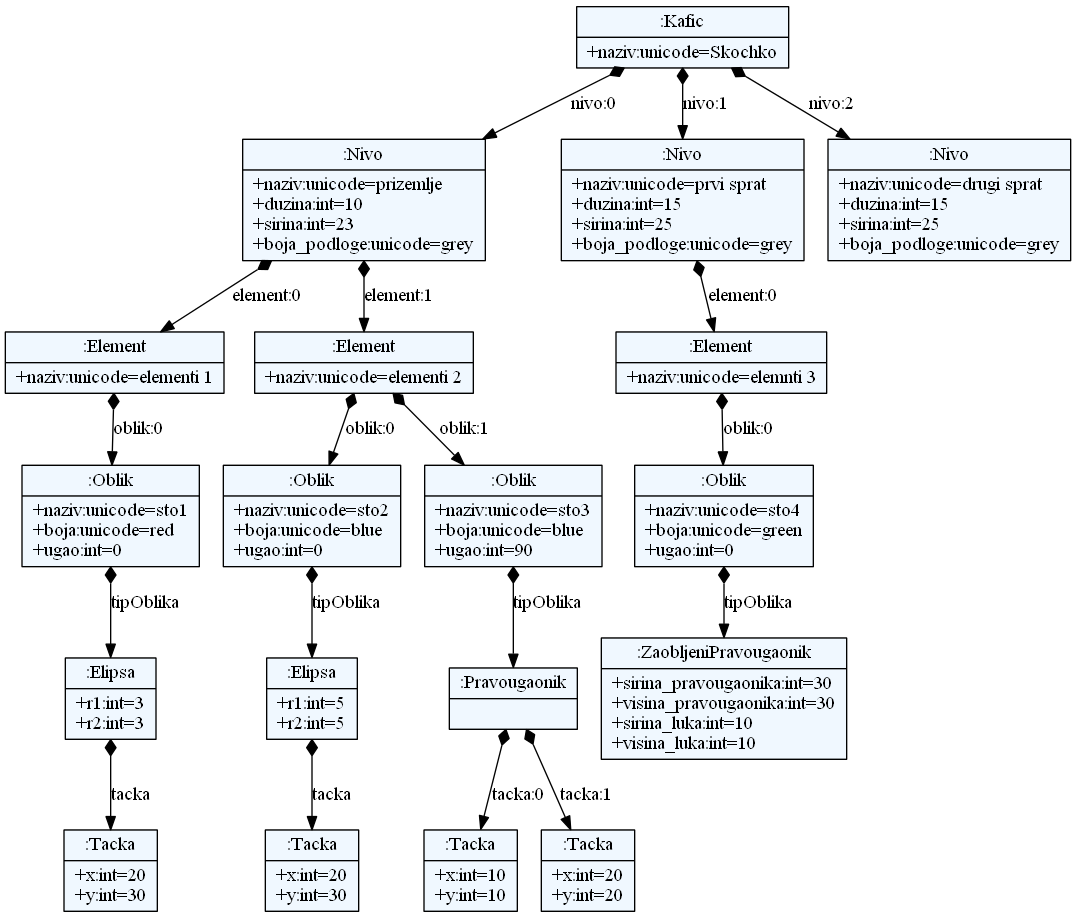
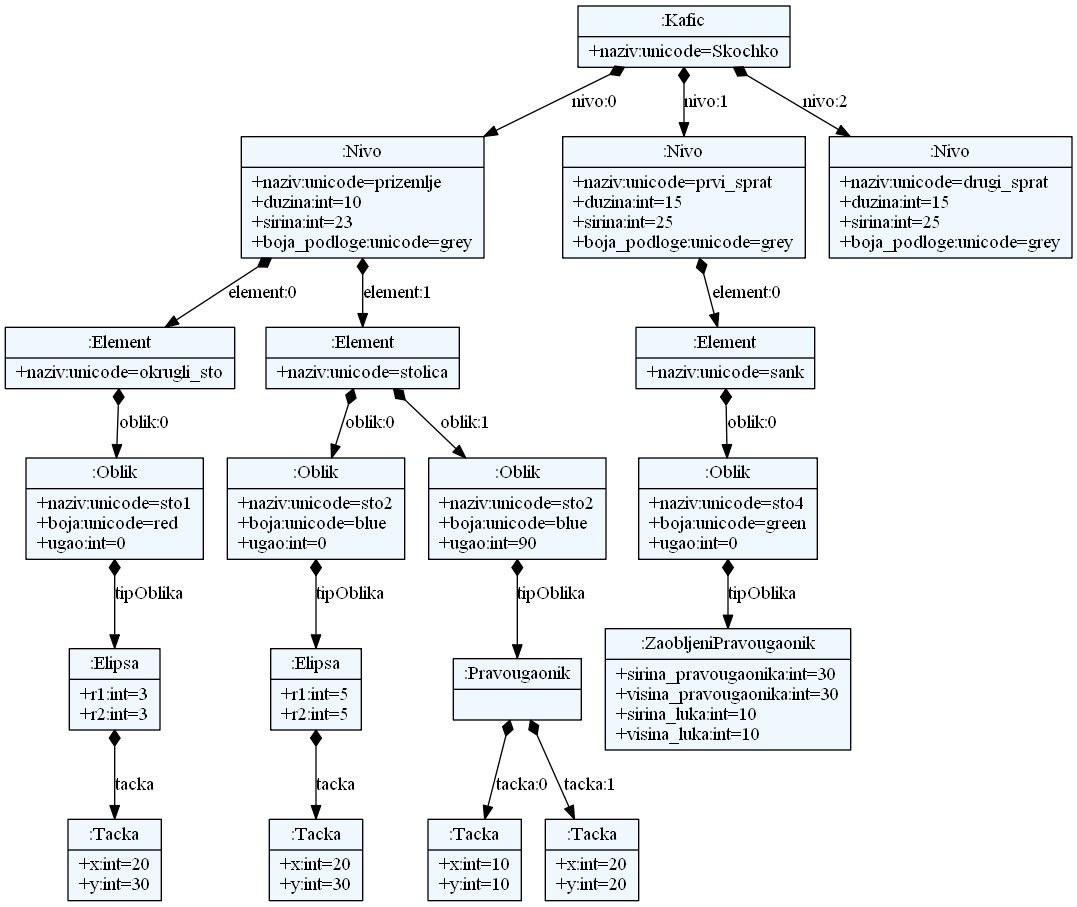
Modifikovan template tako da prihvata liste elemenata dobijene od strane parsera

Changed region(s): [[0.0, 0.0, 1.0, 1.0], [0.9201, 0.1544, 1.0, 0.2161]]

diff --git a/JSDProject/output/CafePainter.java b/JSDProject/output/CafePainter.java
@@ -12,22 +12,46 @@ import model.elements.Trougao;
 import view.MainFrame;
 
 
-public class CafePainter {
+public class Skochko {
 
 	public static void main(String[] args) {
+		
 		// TODO Auto-generated method stub
-
 		MainFrame mejnfrejm = new MainFrame();
 		mejnfrejm.setVisible(true);
-
-		// TODO: Deo za jezik
-		ArrayList<Oblik> oblici = new ArrayList<Oblik>();
 		
-		Element element = new Element(oblici);
+		// TODO: Deo za jezik
 		
 		Canvas canvas = mejnfrejm.getPanel();
+		Element okrugli_sto = null;
+		ArrayList<Oblik> oblici = new ArrayList<Oblik>();
+		Elipsa testOblik = new Elipsa();
+		oblici.add(testOblik);
+					
+		okrugli_sto = new Element(oblici);
+		canvas.addElementToCanvas(okrugli_sto);		
+		Element stolica = null;
+		ArrayList<Oblik> oblici = new ArrayList<Oblik>();
+		Elipsa testOblik = new Elipsa();
+		oblici.add(testOblik);
+					
+		Pravougaonik testOblik = new Pravougaonik();
+		oblici.add(testOblik);
+					
+		stolica = new Element(oblici);
+		canvas.addElementToCanvas(stolica);		
+		Canvas canvas = mejnfrejm.getPanel();
+		Element sank = null;
+		ArrayList<Oblik> oblici = new ArrayList<Oblik>();
+		ZaobljeniPravougaonik testOblik = new ZaobljeniPravougaonik();
+		oblici.add(testOblik);
+					
+		sank = new Element(oblici);
+		canvas.addElementToCanvas(sank);		
+		Canvas canvas = mejnfrejm.getPanel();
 		
-		canvas.addElementToCanvas(element);
+		
+		
 		
 	//	Linija linija2 = new Linija(null, null, new Point2D.Double(12,12), new Point2D.Double(33,55));
 	//	oblici.add(linija2);
@@ -42,6 +66,7 @@ public class CafePainter {
 		oblici.add(elipsa);
 		
 		Trougao trougao = new Trougao(null, null, new Point2D.Double(10,15), new Point2D.Double(20, 70), new Point2D.Double(30,30));
+		
 		oblici.add(trougao);
 	}
 

diff --git a/JSDProject/generation/templates/painter_template.java b/JSDProject/generation/templates/painter_template.java
@@ -5,22 +5,33 @@
 {% endmacro %}
 {{packageAndImports(imports)}}
 
-public class CafePainter {
+public class {{kafic.naziv}} {
 
 	public static void main(String[] args) {
+		
 		// TODO Auto-generated method stub
-
 		MainFrame mejnfrejm = new MainFrame();
 		mejnfrejm.setVisible(true);
-
+		
 		// TODO: Deo za jezik
-		ArrayList<Oblik> oblici = new ArrayList<Oblik>();
 		
-		Element element = new Element(oblici);
-		
+		{% for canvas in kafic.nivoi %}
 		Canvas canvas = mejnfrejm.getPanel();
+				{% for element in canvas.elementi %}
+		Element {{element.naziv}} = null;
+		ArrayList<Oblik> oblici = new ArrayList<Oblik>();
+					{% for oblik in element.oblici %}
+		{{oblik.ime_klase}} {{oblik.naziv}} = new {{oblik.ime_klase}}();
+		oblici.add({{oblik.naziv}});
+					
+					{% endfor %}
+		{{element.naziv}} = new Element(oblici);
+		canvas.addElementToCanvas({{element.naziv}});		
+			{% endfor %}
+		{% endfor %}
 		
-		canvas.addElementToCanvas(element);
+		
+		
 		
 	//	Linija linija2 = new Linija(null, null, new Point2D.Double(12,12), new Point2D.Double(33,55));
 	//	oblici.add(linija2);
@@ -35,6 +46,7 @@ public class CafePainter {
 		oblici.add(elipsa);
 		
 		Trougao trougao = new Trougao(null, null, new Point2D.Double(10,15), new Point2D.Double(20, 70), new Point2D.Double(30,30));
+		
 		oblici.add(trougao);
 	}
 

diff --git a/JSDProject/language/start.py b/JSDProject/language/start.py
@@ -36,5 +36,6 @@ if __name__ == "__main__":
      
     interpreter = Interpreter(model)
     interpreter.interpret()
-    
-    generator.generate("painter_template.java", "CafePainter.java", {"canvas" : model, "imports" : javaPackageAndImports() } )
+    konkretanKafic = interpreter.kafic
+    generator.generate("painter_template.java", "CafePainter.java", 
+                       {"canvas" : model, "imports" : javaPackageAndImports(), "kafic" : konkretanKafic } )

diff --git a/JSDProject/generation/languageInterpreter.py b/JSDProject/generation/languageInterpreter.py
@@ -24,7 +24,7 @@ class Interpreter(object):
                 for oblik in element.oblik:
                     
                     print ("\t"+ oblik.__class__.__name__)
-                    temp_oblik = Oblik('testOblik', 'crvena', '0', oblik.__class__.__name__)
+                    temp_oblik = Oblik('testOblik', 'crvena', '0', oblik.tipOblika.__class__.__name__)
                 
                     temp_element.oblici.append(temp_oblik)
                     
